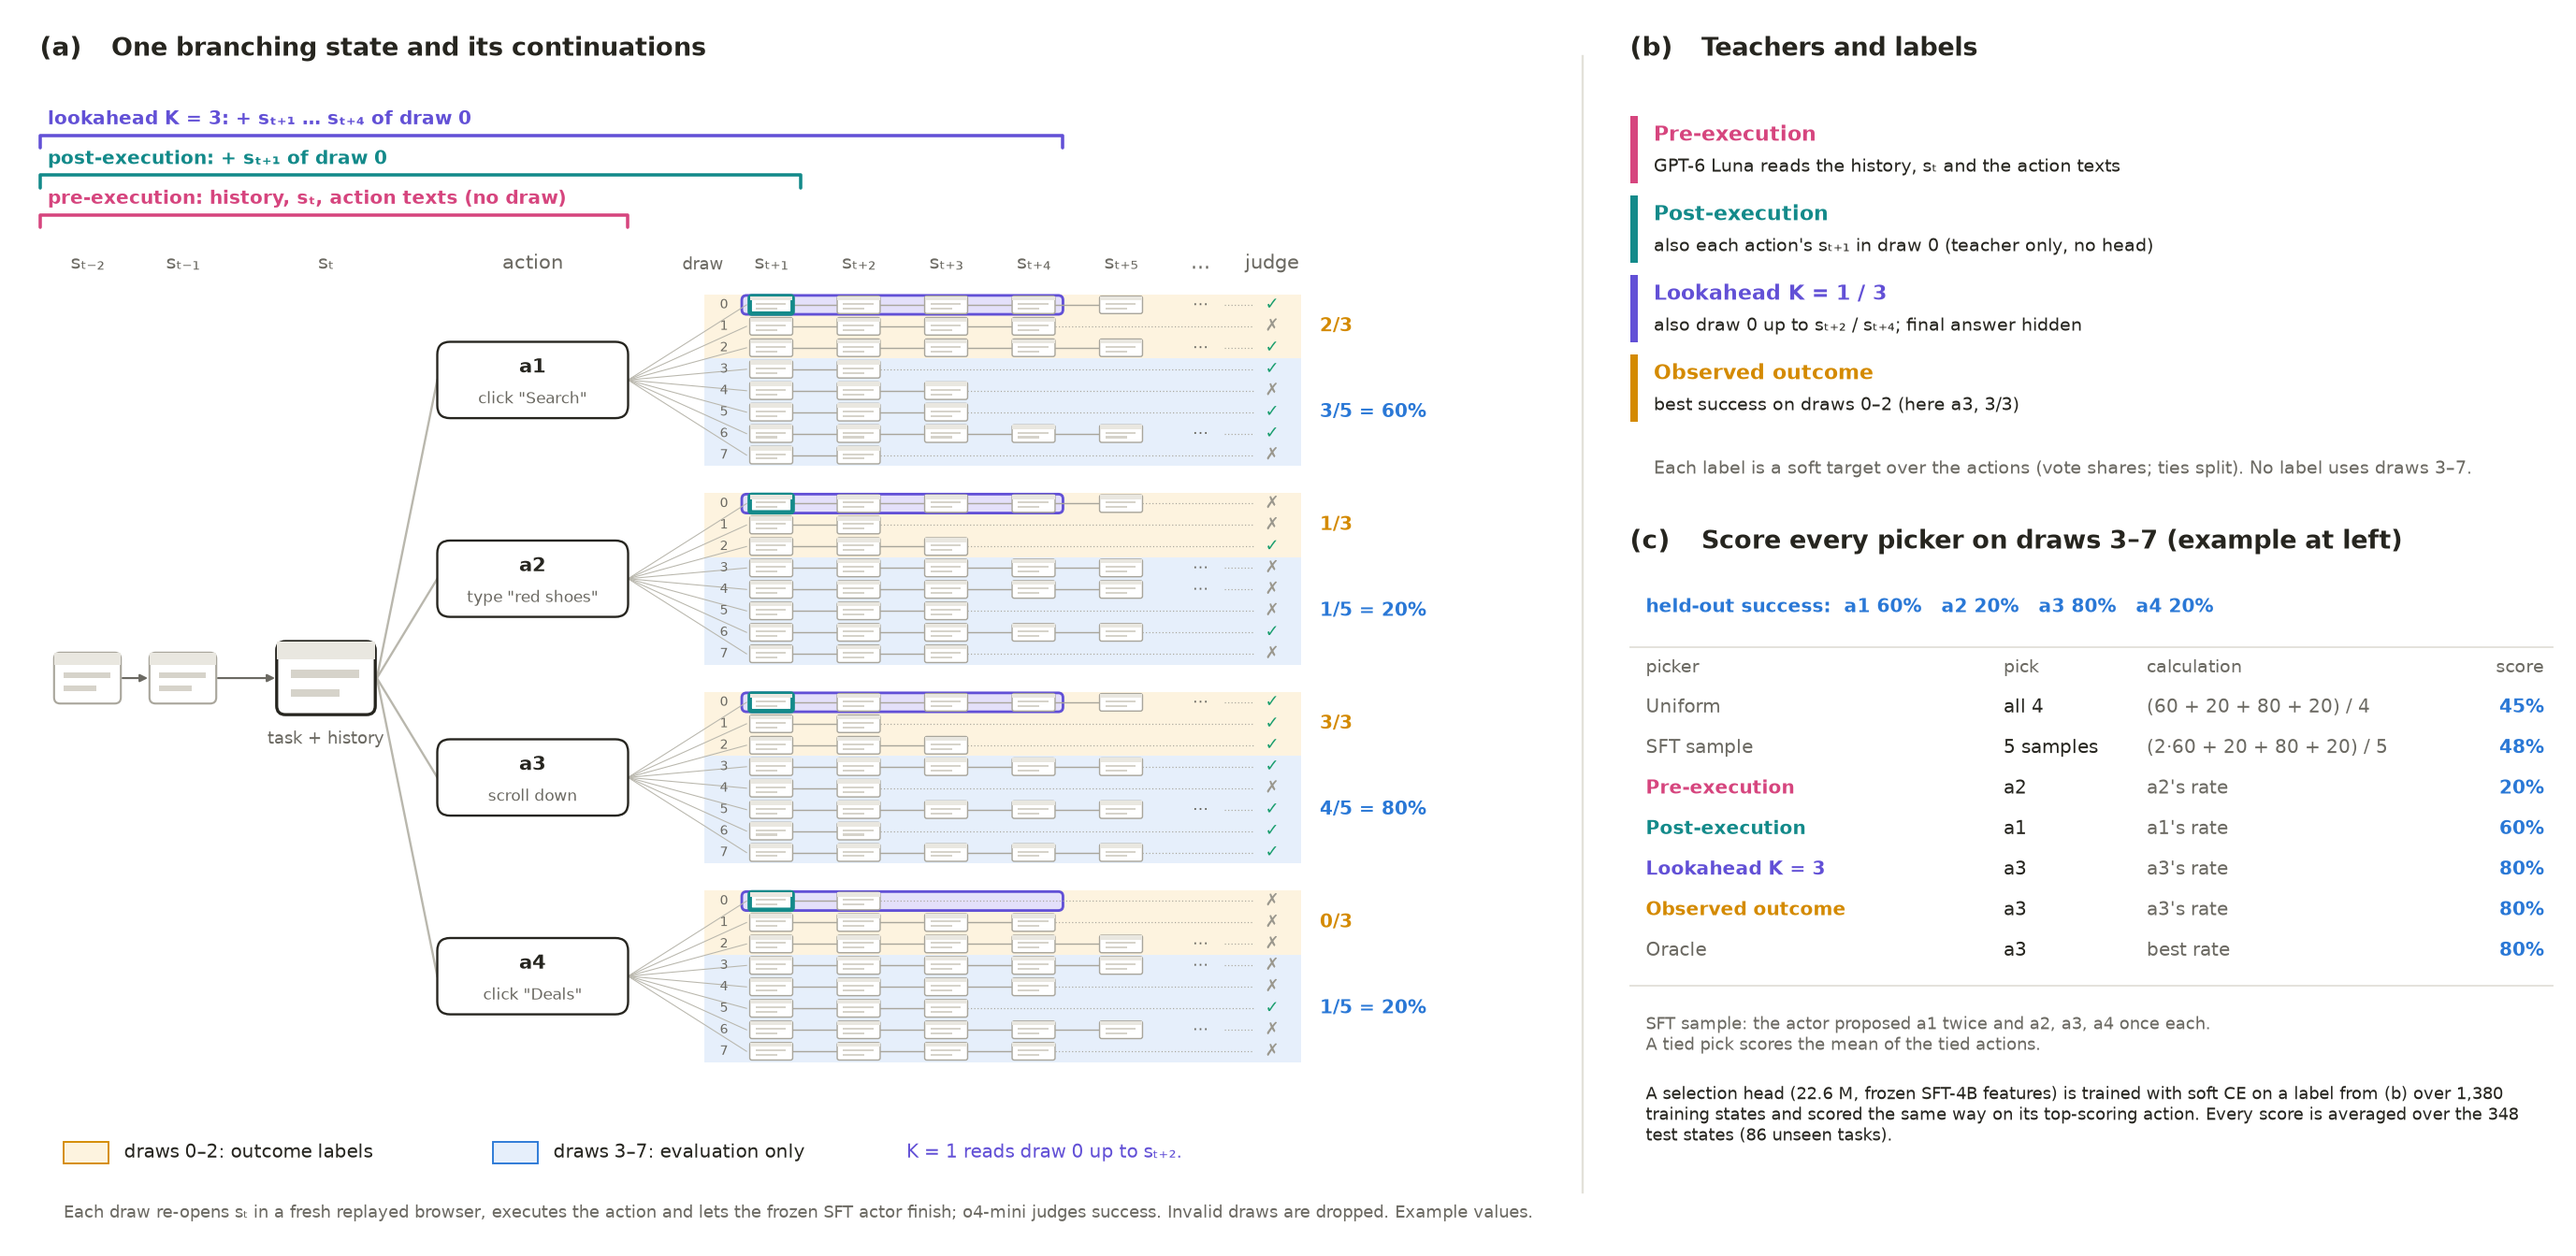
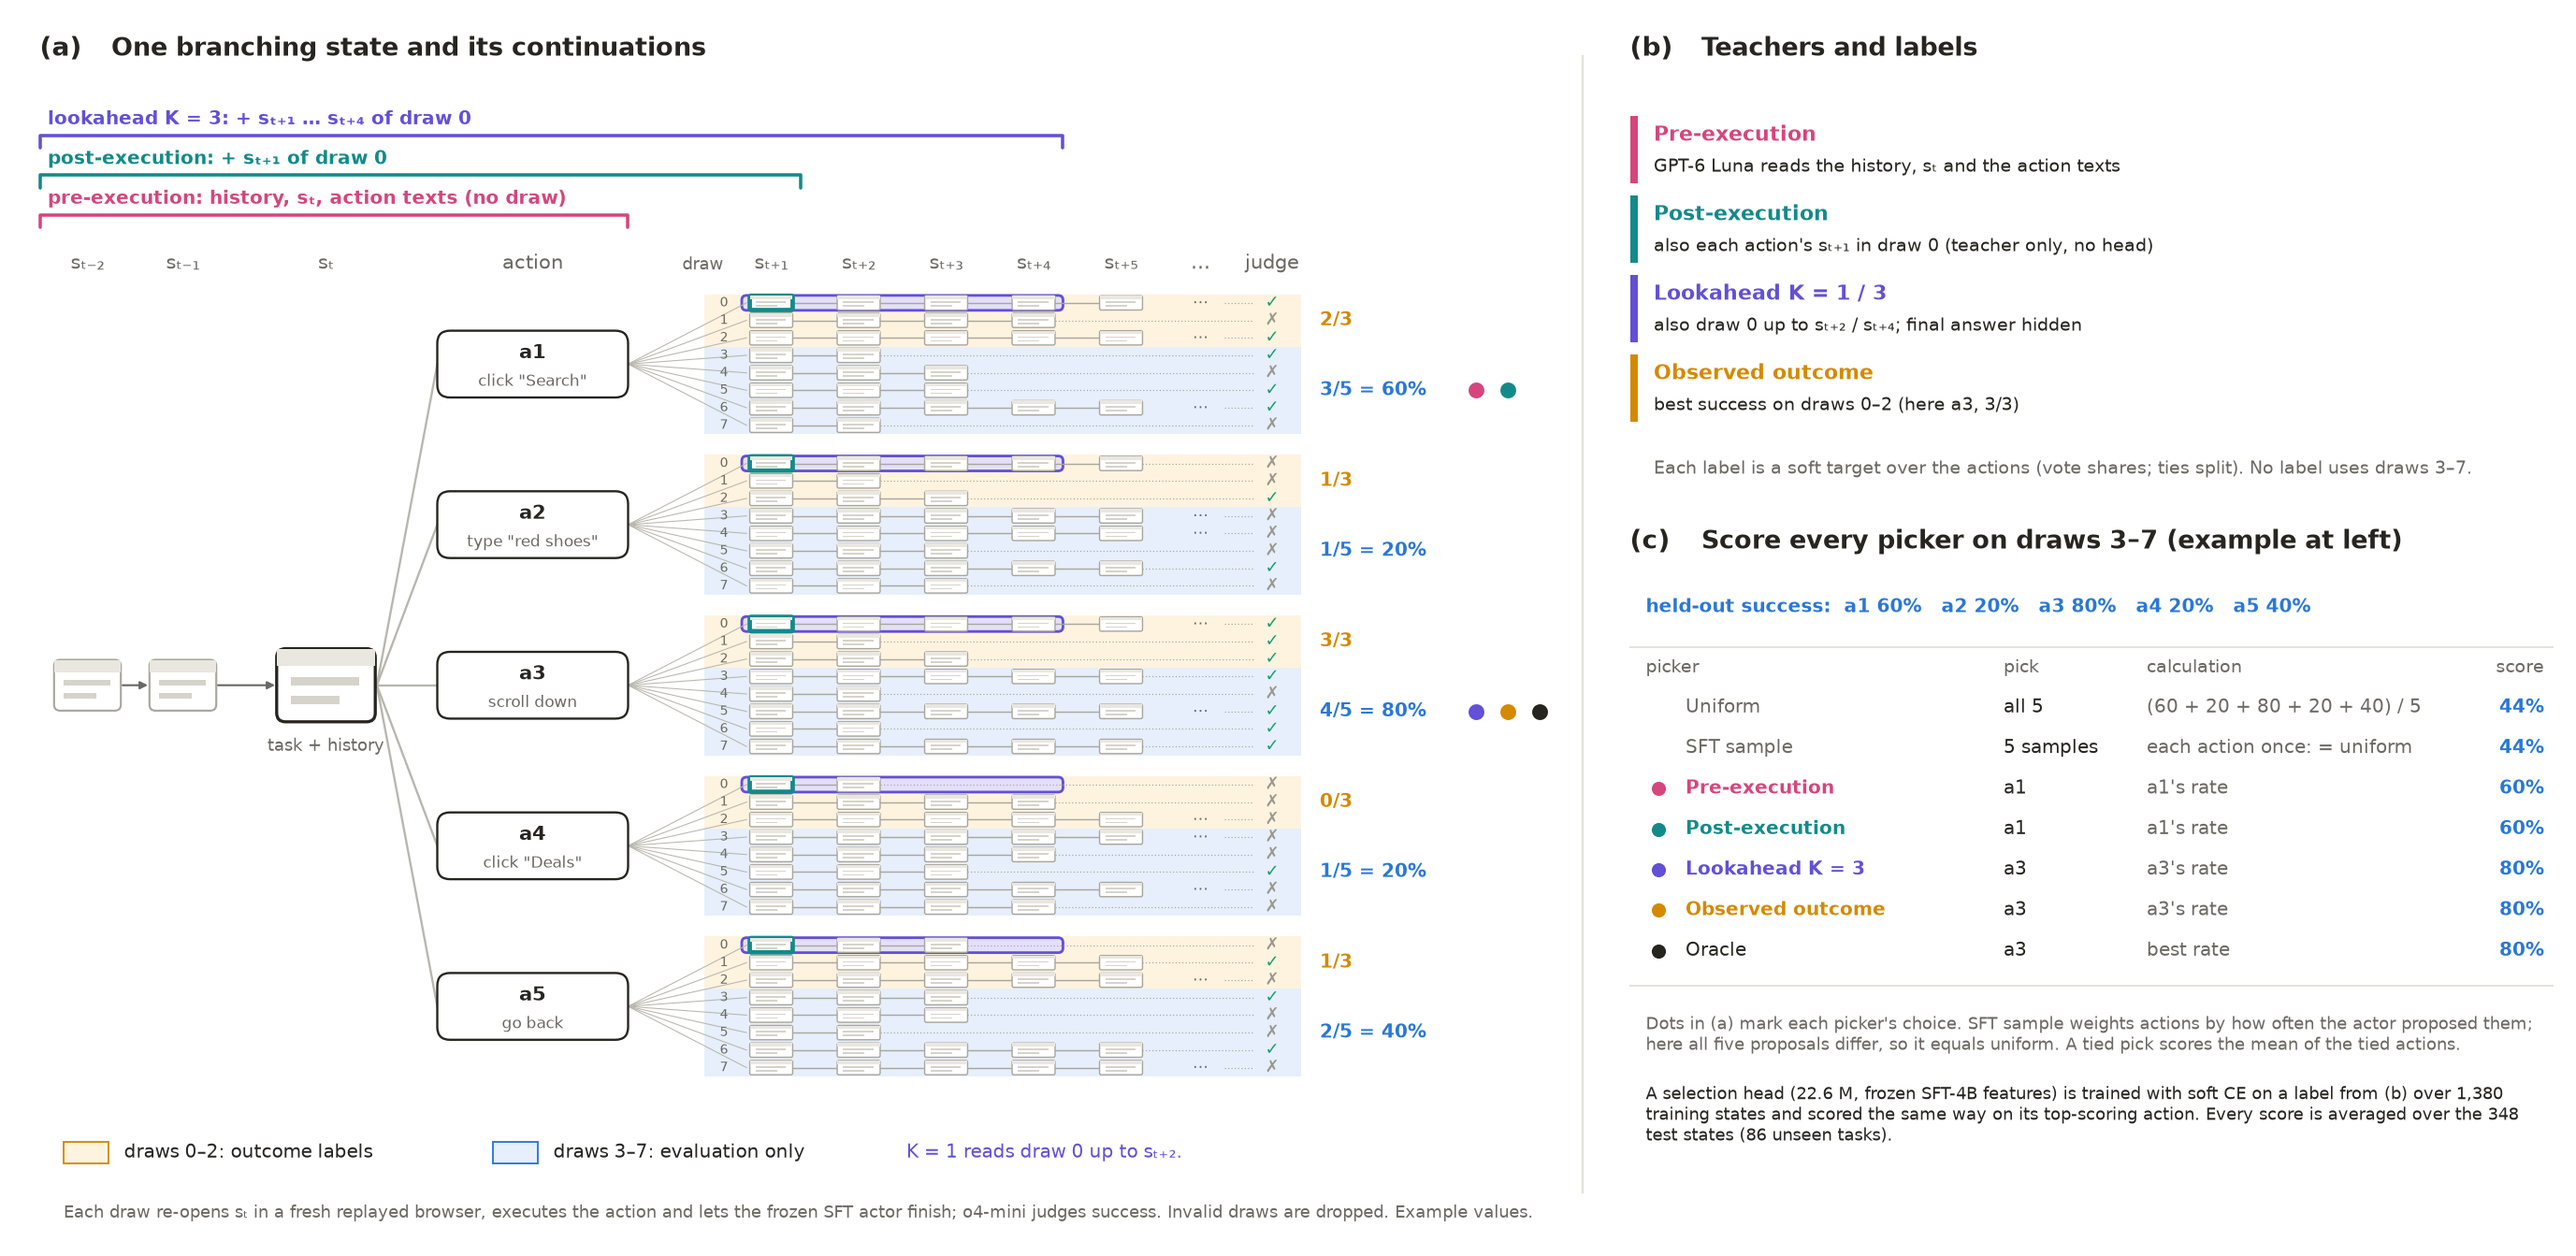
Offline-eval figure: five actions, pick markers per picker, realistic pre-execution example

diff --git a/openwebrl/docs/arm_results/methods/selection-offline-eval-20261022.py b/openwebrl/docs/arm_results/methods/selection-offline-eval-20261022.py
@@ -48,10 +48,10 @@ ax.text(0.6, 7.45, "One branching state and its continuations", fontsize=11.5, w
 hist_x, st_x, act_x, act_w = (0.45, 1.05), 1.95, 2.65, 1.2
 cols = [4.75 + 0.55 * k for k in range(5)]          # s_{t+1} .. s_{t+5}
 dots_x, end_x, cnt_x = cols[-1] + 0.5, cols[-1] + 0.95, cols[-1] + 1.25
-gw, gh = 0.27, 0.11                                  # rollout glyph
-row_h, gap = 0.135, 0.17
+gw, gh = 0.27, 0.09                                  # rollout glyph
+row_h, gap = 0.11, 0.13
 group_h = 8 * row_h
-tops = [5.95 - i * (group_h + gap) for i in range(4)]
+tops = [5.95 - i * (group_h + gap) for i in range(5)]
 y_head = 6.08
 for x, lab in [(hist_x[0], "sₜ₋₂"), (hist_x[1], "sₜ₋₁"), (st_x, "sₜ"), (act_x + act_w / 2, "action")] + \
               [(c, f"sₜ₊{'₁₂₃₄₅'[k]}") for k, c in enumerate(cols)] + [(dots_x, "…"), (end_x, "judge")]:
@@ -71,15 +71,16 @@ screen(st_x, mid_all, 0.62, 0.46, ec=INK, lw=1.4)
 arrow(hist_x[1] + 0.22, mid_all, st_x - 0.32, mid_all, ms=7, lw=0.9)
 ax.text(st_x, mid_all - 0.33, "task + history", ha="center", va="top", fontsize=7.8, color=MUTED)
 
-actions = ['click "Search"', 'type "red shoes"', "scroll down", 'click "Deals"']
-outcomes = [[1, 0, 1, 1, 0, 1, 1, 0], [0, 0, 1, 0, 0, 0, 1, 0], [1, 1, 1, 1, 0, 1, 1, 1], [0, 0, 0, 0, 0, 1, 0, 0]]
+actions = ['click "Search"', 'type "red shoes"', "scroll down", 'click "Deals"', "go back"]
+outcomes = [[1, 0, 1, 1, 0, 1, 1, 0], [0, 0, 1, 0, 0, 0, 1, 0], [1, 1, 1, 1, 0, 1, 1, 1], [0, 0, 0, 0, 0, 1, 0, 0], [0, 1, 0, 1, 0, 0, 1, 0]]
+PICKS = {"a1": [PRE, POST], "a3": [TEACH, OUTC, INK]}      # illustrative picks; INK = oracle
 rng = random.Random(7)
 for i, (name, outs) in enumerate(zip(actions, outcomes)):
     top = tops[i]; mid = top - group_h / 2
     ax.plot([st_x + 0.32, act_x], [mid_all, mid], color=LINE, lw=1.0, zorder=1)
-    rbox(act_x, mid - 0.24, act_w, 0.48, ec=INK, lw=1.0)
-    ax.text(act_x + act_w / 2, mid + 0.08, f"a{i + 1}", ha="center", va="center", fontsize=9, weight="bold")
-    ax.text(act_x + act_w / 2, mid - 0.12, name, ha="center", va="center", fontsize=7.4, color=MUTED)
+    rbox(act_x, mid - 0.21, act_w, 0.42, ec=INK, lw=1.0)
+    ax.text(act_x + act_w / 2, mid + 0.07, f"a{i + 1}", ha="center", va="center", fontsize=9, weight="bold")
+    ax.text(act_x + act_w / 2, mid - 0.11, name, ha="center", va="center", fontsize=7.4, color=MUTED)
     band_x0, band_x1 = cols[0] - 0.42, end_x + 0.18
     ax.add_patch(Rectangle((band_x0, top - 3 * row_h), band_x1 - band_x0, 3 * row_h, fc=OUTC_BG, ec="none", zorder=0))
     ax.add_patch(Rectangle((band_x0, top - 8 * row_h), band_x1 - band_x0, 5 * row_h, fc=HELD_BG, ec="none", zorder=0))
@@ -101,6 +102,8 @@ for i, (name, outs) in enumerate(zip(actions, outcomes)):
     a, h = sum(outs[:3]), sum(outs[3:])
     ax.text(cnt_x, top - 1.5 * row_h, f"{a}/3", va="center", fontsize=8.5, color=OUTC, weight="bold")
     ax.text(cnt_x, top - 5.5 * row_h, f"{h}/5 = {20 * h}%", va="center", fontsize=8.5, color=HELD, weight="bold")
+    for j, color in enumerate(PICKS.get(f"a{i + 1}", [])):      # which picker chose this action
+        ax.scatter(cnt_x + 0.98 + 0.2 * j, top - 5.5 * row_h, s=70, color=color, edgecolor="white", linewidth=1.2, zorder=6)
 
 ky = 0.55
 for x, fc, ec, text in [(0.3, OUTC_BG, OUTC, "draws 0–2: outcome labels"), (3.0, HELD_BG, HELD, "draws 3–7: evaluation only")]:
@@ -130,27 +133,28 @@ ax.text(bx + 0.15, 4.85, "Each label is a soft target over the actions (vote sha
 # ---------------- (c) worked scores ----------------
 ax.text(bx, 4.35, "(c)", fontsize=12, weight="bold")
 ax.text(bx + 0.45, 4.35, "Score every picker on draws 3–7 (example at left)", fontsize=11.5, weight="bold")
-rate = {"a1": 60, "a2": 20, "a3": 80, "a4": 20}
-ax.text(bx + 0.1, 3.95, "held-out success:  a1 60%   a2 20%   a3 80%   a4 20%", fontsize=8.6, color=HELD, weight="bold")
+ax.text(bx + 0.1, 3.95, "held-out success:  a1 60%   a2 20%   a3 80%   a4 20%   a5 40%", fontsize=8.6, color=HELD, weight="bold")
 c_pick, c_calc, c_val = bx + 2.35, bx + 3.25, bx + 5.75
 ax.plot([bx, c_val + 0.05], [3.73, 3.73], color="#e3e1da", lw=0.8)
 for x, t, ha in [(bx + 0.1, "picker", "left"), (c_pick, "pick", "left"), (c_calc, "calculation", "left"), (c_val, "score", "right")]:
     ax.text(x, 3.6, t, fontsize=8, color=MUTED, ha=ha, va="center")
-rows = [("Uniform", MUTED, "all 4", "(60 + 20 + 80 + 20) / 4", 45),
-        ("SFT sample", MUTED, "5 samples", "(2·60 + 20 + 80 + 20) / 5", 48),
-        ("Pre-execution", PRE, "a2", "a2's rate", 20),
+rows = [("Uniform", None, "all 5", "(60 + 20 + 80 + 20 + 40) / 5", 44),
+        ("SFT sample", None, "5 samples", "each action once: = uniform", 44),
+        ("Pre-execution", PRE, "a1", "a1's rate", 60),
         ("Post-execution", POST, "a1", "a1's rate", 60),
         ("Lookahead K = 3", TEACH, "a3", "a3's rate", 80),
         ("Observed outcome", OUTC, "a3", "a3's rate", 80),
-        ("Oracle", MUTED, "a3", "best rate", 80)]
+        ("Oracle", INK, "a3", "best rate", 80)]
 for k, (name, color, pick, calc, val) in enumerate(rows):
     y = 3.35 - k * 0.255
-    ax.text(bx + 0.1, y, name, fontsize=8.6, color=color, weight="bold" if color != MUTED else "normal", va="center")
+    if color:
+        ax.scatter(bx + 0.18, y, s=55, color=color, edgecolor="white", linewidth=1, zorder=6)
+    ax.text(bx + 0.35, y, name, fontsize=8.6, color=color or MUTED, weight="bold" if color not in (None, INK) else "normal", va="center")
     ax.text(c_pick, y, pick, fontsize=8.6, va="center")
     ax.text(c_calc, y, calc, fontsize=8.6, va="center", color=MUTED)
     ax.text(c_val, y, f"{val}%", fontsize=8.6, va="center", ha="right", color=HELD, weight="bold")
 ax.plot([bx, c_val + 0.05], [1.6, 1.6], color="#e3e1da", lw=0.8)
-ax.text(bx + 0.1, 1.42, "SFT sample: the actor proposed a1 twice and a2, a3, a4 once each.\nA tied pick scores the mean of the tied actions.",
+ax.text(bx + 0.1, 1.42, "Dots in (a) mark each picker's choice. SFT sample weights actions by how often the actor proposed them;\nhere all five proposals differ, so it equals uniform. A tied pick scores the mean of the tied actions.",
         fontsize=7.8, color=MUTED, va="top")
 ax.text(bx + 0.1, 0.98, "A selection head (22.6 M, frozen SFT-4B features) is trained with soft CE on a label from (b) over 1,380\n"
         "training states and scored the same way on its top-scoring action. Every score is averaged over the 348\n"

diff --git a/openwebrl/docs/ARM_SELECTION_HEAD.md b/openwebrl/docs/ARM_SELECTION_HEAD.md
@@ -210,7 +210,7 @@
 
 **How the offline evaluation works.** Labels come from draws 0–2 (outcome) or from what draw 0 shows a teacher; every picker, teacher or trained head, is scored on the same held-out draws 3–7 of test states it never trained on.
 
-![Offline evaluation. (a) A branching state from an SFT-4B episode fans out into its proposed actions; each is executed 8 times (draws 0–7) and the frozen SFT actor continues through sₜ₊₁, sₜ₊₂, … to a judged success or failure, every state drawn as the same screenshot glyph on one timeline. Brackets show what each teacher reads: pre-execution the history, sₜ and the action texts (no draw); post-execution also each action's sₜ₊₁ in draw 0; lookahead K = 3 draw 0 up to sₜ₊₄. Draws 0–2 give outcome labels and draws 3–7 are held out. (b) The four teachers and labels. (c) Worked scores on this example from the held-out rates a1 60%, a2 20%, a3 80%, a4 20%: uniform 45%, SFT sample 48%, pre-execution (a2) 20%, post-execution (a1) 60%, lookahead K = 3 and observed outcome (a3) 80%, oracle 80%; a trained head is scored the same way on its top-scoring action, averaged over 348 test states](arm_results/methods/selection-offline-eval-20261022.png)
+![Offline evaluation. (a) A branching state from an SFT-4B episode fans out into its proposed actions; each is executed 8 times (draws 0–7) and the frozen SFT actor continues through sₜ₊₁, sₜ₊₂, … to a judged success or failure, every state drawn as the same screenshot glyph on one timeline. Brackets show what each teacher reads: pre-execution the history, sₜ and the action texts (no draw); post-execution also each action's sₜ₊₁ in draw 0; lookahead K = 3 draw 0 up to sₜ₊₄. Draws 0–2 give outcome labels and draws 3–7 are held out. (b) The four teachers and labels. Coloured dots mark which action each picker chose. (c) Worked scores on this five-action example from the held-out rates a1 60%, a2 20%, a3 80%, a4 20%, a5 40%: uniform and SFT sample 44%, pre- and post-execution (a1) 60%, lookahead K = 3 and observed outcome (a3) 80%, oracle 80%; a trained head is scored the same way on its top-scoring action, averaged over 348 test states](arm_results/methods/selection-offline-eval-20261022.png)
 
 *[Figure script](arm_results/methods/selection-offline-eval-20261022.py); labels and scoring: `scripts/train_head_round.py` (`targets`, `held_rate`). Rollouts, outcomes and teacher picks are an illustrative example.*
 
